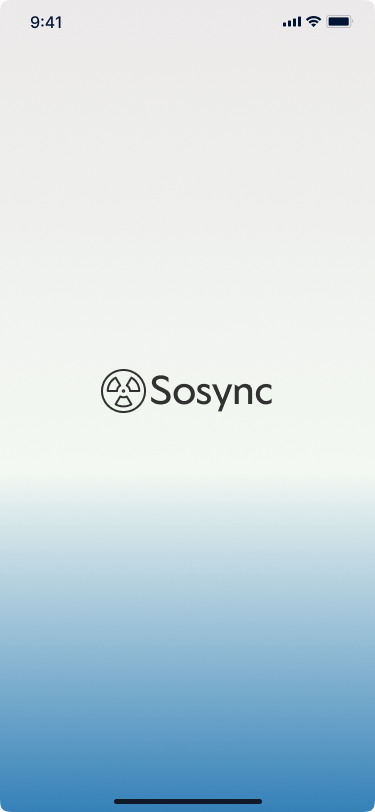
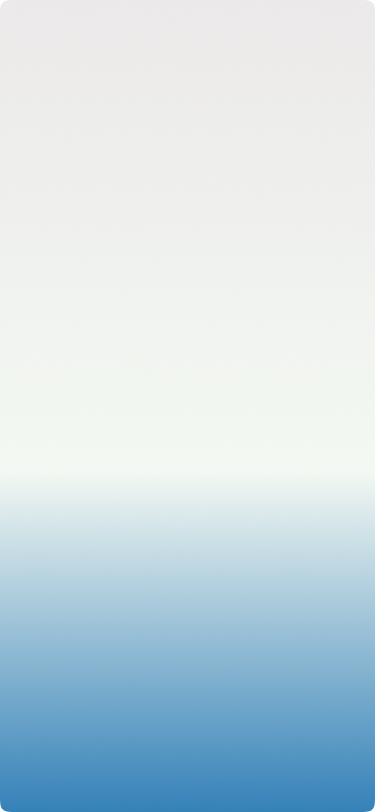
Fix: More Design changes

diff --git a/app/app/admin/reports.tsx b/app/app/admin/reports.tsx
@@ -1,5 +1,5 @@
 import React, { useState, useEffect } from 'react';
-import { StyleSheet, View, Text, FlatList, TouchableOpacity, ActivityIndicator, Alert, ScrollView } from 'react-native';
+import { StyleSheet, View, Text, FlatList, TouchableOpacity, ActivityIndicator, Alert, ScrollView, Image } from 'react-native';
 import Theme from '@/config/theme';
 import FontAwesome from '@expo/vector-icons/FontAwesome';
 import { getAllDisasterReports, adminUpdateReportStatus, DisasterReportDocument, ReportStatus } from '@/config/dbutils';
@@ -28,8 +28,8 @@ export default function AdminReportManagement() {
     fetchReports();
   }, []);
 
-  const filteredReports = filter === 'ALL' 
-    ? reports 
+  const filteredReports = filter === 'ALL'
+    ? reports
     : reports.filter(r => r.status === filter);
 
   const updateStatus = (reportId: string, status: ReportStatus) => {
@@ -38,8 +38,8 @@ export default function AdminReportManagement() {
       `Change report status to ${status}?`,
       [
         { text: 'Cancel', style: 'cancel' },
-        { 
-          text: 'Confirm', 
+        {
+          text: 'Confirm',
           onPress: async () => {
             try {
               await adminUpdateReportStatus(reportId, status);
@@ -54,8 +54,8 @@ export default function AdminReportManagement() {
   };
 
   const renderReportItem = ({ item }: { item: DisasterReportDocument }) => (
-    <TouchableOpacity 
-      style={styles.reportCard} 
+    <TouchableOpacity
+      style={styles.reportCard}
       onPress={() => router.push(`/admin/report/${item.id}` as any)}
     >
       <View style={styles.cardHeader}>
@@ -64,22 +64,54 @@ export default function AdminReportManagement() {
           <Text style={[styles.statusText, { color: getStatusColor(item.status) }]}>{item.status}</Text>
         </View>
       </View>
-      
+
       <Text style={styles.description} numberOfLines={2}>{item.description}</Text>
-      
+
       <View style={styles.locationRow}>
         <FontAwesome name="map-marker" size={12} color={Theme.variants.textMuted} />
         <Text style={styles.locationTxt} numberOfLines={1}>
           {item.address || `${item.latitude.toFixed(4)}, ${item.longitude.toFixed(4)}`}
         </Text>
       </View>
-      
+
       <View style={styles.cardFooter}>
-        <Text style={styles.date}>{formatDate(item.created_at)}</Text>
+        <View style={styles.date}>
+          <FontAwesome name="calendar" size={12} color="#aaa" />
+          <Text>{formatDate(item.created_at)}</Text>
+        </View>
         <View style={styles.voteStats}>
           <Text style={styles.voteTxt}>✅ {item.confirm_count || 0}</Text>
           <Text style={styles.voteTxt}>❌ {item.dismiss_count || 0}</Text>
         </View>
+      </View>
+
+      <View>
+        {item?.media && item?.media?.length > 0 && (
+          <ScrollView
+            horizontal
+            showsHorizontalScrollIndicator={false}
+            contentContainerStyle={{ gap: 8, marginTop: 12 }}
+          >
+            {item.media.map((mediaItem, index) => (
+              <View
+                key={index}
+                style={{
+                  width: 80,
+                  height: 80,
+                  borderRadius: 8,
+                  overflow: 'hidden',
+                  backgroundColor: '#eee',
+                }}
+              >
+                <Image
+                  source={{ uri: mediaItem.url }}
+                  style={{ width: '100%', height: '100%' }}
+                  resizeMode="cover"
+                />
+              </View>
+            ))}
+          </ScrollView>
+        )}
       </View>
 
       <View style={styles.adminActions}>
@@ -104,8 +136,8 @@ export default function AdminReportManagement() {
       <View style={styles.filterWrapper}>
         <ScrollView horizontal showsHorizontalScrollIndicator={false} contentContainerStyle={styles.filterScroll}>
           {['ALL', 'PENDING', 'VERIFIED', 'RESOLVED', 'FALSE_ALARM'].map((f) => (
-            <TouchableOpacity 
-              key={f} 
+            <TouchableOpacity
+              key={f}
               style={[styles.filterBtn, filter === f && styles.filterBtnActive]}
               onPress={() => setFilter(f as any)}
             >
@@ -226,6 +258,10 @@ const styles = StyleSheet.create({
   date: {
     fontSize: 12,
     color: '#aaa',
+    flexDirection: 'row',
+    alignItems: 'center',
+    gap: 6,
+    display: 'flex'
   },
   voteStats: {
     flexDirection: 'row',

diff --git a/app/app/admin/users.tsx b/app/app/admin/users.tsx
@@ -36,7 +36,7 @@ export default function AdminUserManagement() {
   }, []);
 
   useEffect(() => {
-    const filtered = users.filter(u => 
+    const filtered = users.filter(u =>
       (u.first_name + ' ' + u.last_name).toLowerCase().includes(search.toLowerCase()) ||
       u.email.toLowerCase().includes(search.toLowerCase())
     );
@@ -50,8 +50,8 @@ export default function AdminUserManagement() {
       `Are you sure you want to change ${user.first_name}'s role to ${newRole}?`,
       [
         { text: 'Cancel', style: 'cancel' },
-        { 
-          text: 'Update', 
+        {
+          text: 'Update',
           onPress: async () => {
             try {
               await adminUpdateUserRole(user.id as any, newRole);
@@ -72,8 +72,8 @@ export default function AdminUserManagement() {
       `Are you sure you want to ${newStatus ? 'activate' : 'suspend'} ${user.first_name}'s account?`,
       [
         { text: 'Cancel', style: 'cancel' },
-        { 
-          text: newStatus ? 'Activate' : 'Suspend', 
+        {
+          text: newStatus ? 'Activate' : 'Suspend',
           style: newStatus ? 'default' : 'destructive',
           onPress: async () => {
             try {
@@ -139,19 +139,19 @@ export default function AdminUserManagement() {
       </View>
       <View style={styles.actionGroup}>
         <TouchableOpacity style={styles.actionBtn} onPress={() => handleEditPress(item)}>
-          <FontAwesome name="edit" size={16} color={Theme.variants.primary} />
+          <Text>Edit</Text><FontAwesome name="edit" size={16} color={Theme.variants.primary} />
         </TouchableOpacity>
         <TouchableOpacity style={[styles.actionBtn, { marginLeft: 10 }]} onPress={() => toggleRole(item)}>
-          <FontAwesome name="exchange" size={16} color="#666" />
+          <Text>Role</Text><FontAwesome name="exchange" size={16} color="#666" />
         </TouchableOpacity>
-        <TouchableOpacity 
-          style={[styles.actionBtn, { marginLeft: 10, backgroundColor: item.is_active === false ? '#4caf5015' : '#f4433615' }]} 
+        <TouchableOpacity
+          style={[styles.actionBtn, { marginLeft: 10, backgroundColor: item.is_active === false ? '#4caf5015' : '#f4433615' }]}
           onPress={() => toggleUserStatus(item)}
         >
-          <FontAwesome 
-            name={item.is_active === false ? "unlock" : "lock"} 
-            size={16} 
-            color={item.is_active === false ? "#4caf50" : "#f44336"} 
+          <Text>Suspend</Text><FontAwesome
+            name={item.is_active === false ? "unlock" : "lock"}
+            size={16}
+            color={item.is_active === false ? "#4caf50" : "#f44336"}
           />
         </TouchableOpacity>
       </View>
@@ -162,7 +162,7 @@ export default function AdminUserManagement() {
     <SafeAreaView style={styles.container} edges={['bottom']}>
       <View style={styles.searchBar}>
         <FontAwesome name="search" size={16} color="#aaa" />
-        <TextInput 
+        <TextInput
           style={styles.searchInput}
           placeholder="Search name or email..."
           value={search}
@@ -197,7 +197,7 @@ export default function AdminUserManagement() {
         onRequestClose={() => setEditModalVisible(false)}
       >
         <View style={styles.modalOverlay}>
-          <KeyboardAvoidingView 
+          <KeyboardAvoidingView
             behavior={Platform.OS === 'ios' ? 'padding' : 'height'}
             style={styles.modalContent}
           >
@@ -240,8 +240,8 @@ export default function AdminUserManagement() {
                 />
               </View>
 
-              <TouchableOpacity 
-                style={[styles.updateBtn, updating && { opacity: 0.7 }]} 
+              <TouchableOpacity
+                style={[styles.updateBtn, updating && { opacity: 0.7 }]}
                 onPress={handleUpdateUser}
                 disabled={updating}
               >
@@ -284,8 +284,10 @@ const styles = StyleSheet.create({
     paddingBottom: 20,
   },
   userCard: {
-    flexDirection: 'row',
-    alignItems: 'center',
+    flexDirection: 'column',
+    alignItems: "flex-start",
+    gap: 12,
+    width: '100%',
     paddingVertical: 15,
     borderBottomWidth: 1,
     borderBottomColor: '#f0f0f0',
@@ -294,6 +296,7 @@ const styles = StyleSheet.create({
     flex: 1,
     flexDirection: 'row',
     alignItems: 'center',
+    width: '100%'
   },
   avatar: {
     width: 44,
@@ -347,11 +350,17 @@ const styles = StyleSheet.create({
   actionGroup: {
     flexDirection: 'row',
     alignItems: 'center',
+    width: '100%',
+    flexBasis: '100%'
   },
   actionBtn: {
     padding: 10,
     backgroundColor: '#f0f7ff',
     borderRadius: 8,
+    display: 'flex',
+    flexDirection: 'row',
+    alignItems: 'center',
+    gap: 8
   },
   emptyTxt: {
     textAlign: 'center',

diff --git a/app/app/admin/report/[id].tsx b/app/app/admin/report/[id].tsx
@@ -81,8 +81,8 @@ export default function AdminReportDetail() {
       'Are you sure you want to permanently remove this media item?',
       [
         { text: 'Cancel', style: 'cancel' },
-        { 
-          text: 'Delete', 
+        {
+          text: 'Delete',
           style: 'destructive',
           onPress: async () => {
             try {
@@ -125,9 +125,6 @@ export default function AdminReportDetail() {
             <View style={styles.readOnlyBox}>
               <Text style={styles.readOnlyTxt}>{report.type}</Text>
             </View>
-
-            <Text style={styles.label}>Reporter ID</Text>
-            <Text style={styles.subLabel}>{report.user_id}</Text>
 
             <Text style={styles.label}>Location</Text>
             <Text style={styles.subLabel}>{report.address || `${report.latitude.toFixed(4)}, ${report.longitude.toFixed(4)}`}</Text>
@@ -203,8 +200,8 @@ export default function AdminReportDetail() {
               {report.media.map((item, index) => (
                 <View key={index} style={styles.mediaItem}>
                   <Image source={{ uri: item.url }} style={styles.mediaThumb} />
-                  <TouchableOpacity 
-                    style={styles.deleteMediaBtn} 
+                  <TouchableOpacity
+                    style={styles.deleteMediaBtn}
                     onPress={() => handleRemoveMedia(item.file_name)}
                   >
                     <FontAwesome name="trash" size={14} color="#fff" />